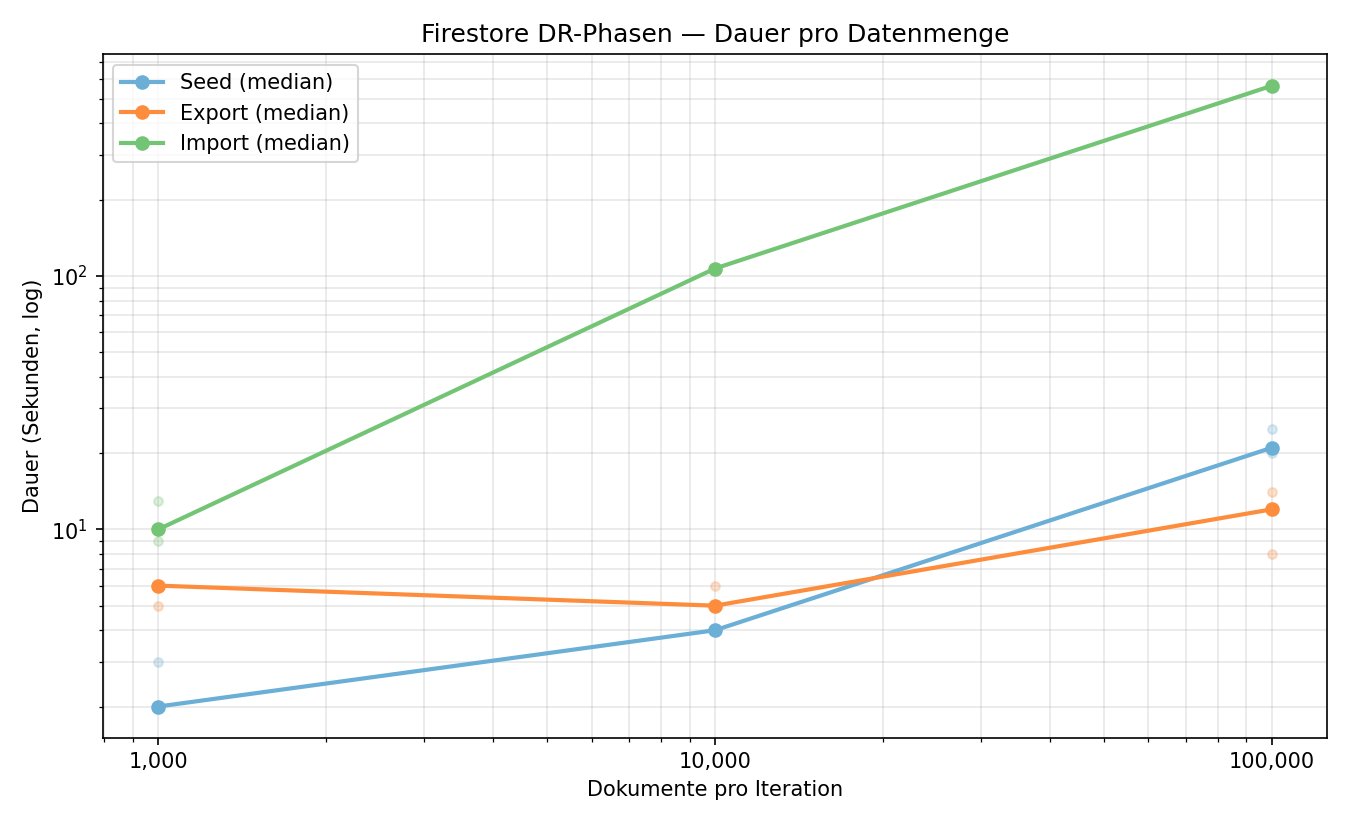
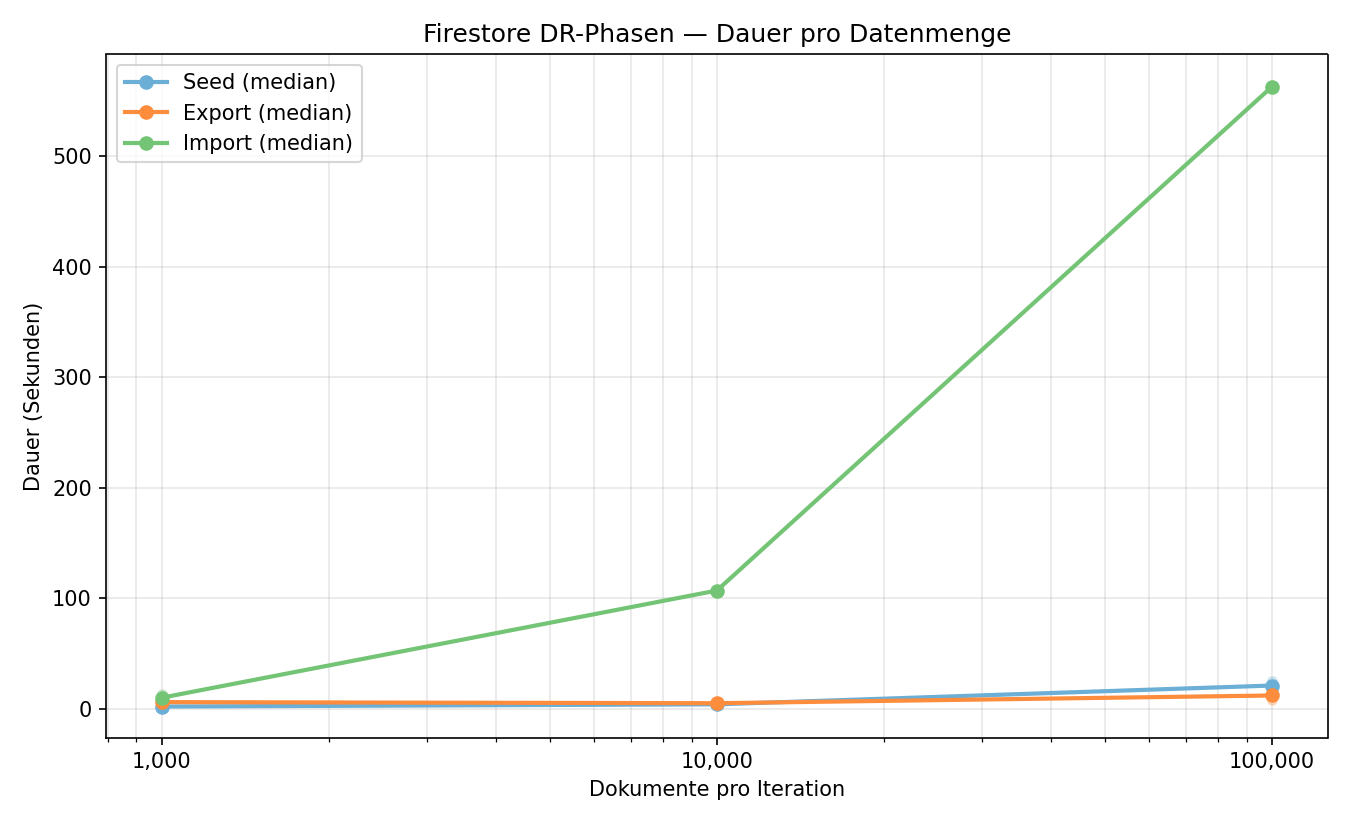
minor improvements

diff --git a/frontend/src/components/Chat.tsx b/frontend/src/components/Chat.tsx
@@ -614,7 +614,7 @@ export default function Chat() {
     });
 
     try {
-      const res = await sendMessage(requestText, conversationId, "trip_json");
+      const res = await sendMessage(requestText, conversationId);
 
       setConversationId(res.conversation_id);
       syncConversationParam(res.conversation_id, true);
@@ -649,7 +649,7 @@ export default function Chat() {
     setError(null);
     setLoading(true);
     try {
-      const res = await sendMessage(retryRequest.requestText, retryRequest.conversationId, "trip_json");
+      const res = await sendMessage(retryRequest.requestText, retryRequest.conversationId);
 
       setConversationId(res.conversation_id);
       syncConversationParam(res.conversation_id, true);

diff --git a/frontend/src/services/api.test.ts b/frontend/src/services/api.test.ts
@@ -100,7 +100,6 @@ describe("api helper functions", () => {
       expect(JSON.parse(config.data)).toEqual({
         content: "Plan Porto",
         conversation_id: "conv-1",
-        response_format: "trip_json",
         is_bootstrap: true,
       });
       return [
@@ -113,7 +112,7 @@ describe("api helper functions", () => {
       ];
     });
 
-    const result = await sendMessage("Plan Porto", "conv-1", "trip_json", true);
+    const result = await sendMessage("Plan Porto", "conv-1", true);
     expect(result).toEqual({
       conversation_id: "conv-1",
       assistant_message: "ok",

diff --git a/frontend/src/services/api.ts b/frontend/src/services/api.ts
@@ -32,10 +32,9 @@ api.interceptors.response.use(
 export const sendMessage = (
   content: string,
   conversation_id: string | null = null,
-  response_format: "text" | "trip_json" = "text",
   is_bootstrap = false
 ): Promise<SendMessageResponse> =>
-  api.post("/ai/chat", { content, conversation_id, response_format, is_bootstrap }).then((r) => r.data);
+  api.post("/ai/chat", { content, conversation_id, is_bootstrap }).then((r) => r.data);
 
 export const listConversations = (): Promise<Conversation[]> =>
   api.get("/ai/conversations").then((r) => r.data);

diff --git a/scripts/perf-plot.py b/scripts/perf-plot.py
@@ -47,9 +47,8 @@ def plot_scale(rows: list[dict], output: Path) -> None:
                 ax.scatter([dc], [r[field]], color=color, alpha=0.25, s=18)
 
     ax.set_xscale("log")
-    ax.set_yscale("log")
     ax.set_xlabel("Dokumente pro Iteration")
-    ax.set_ylabel("Dauer (Sekunden, log)")
+    ax.set_ylabel("Dauer (Sekunden)")
     ax.set_title("Firestore DR-Phasen — Dauer pro Datenmenge")
     ax.grid(True, which="both", alpha=0.3)
     ax.legend(loc="upper left")
@@ -72,9 +71,8 @@ def plot_mig(rows: list[dict], output: Path) -> None:
     ]
 
     iterations = [r["iteration"] for r in rows]
-    fig, (ax1, ax2) = plt.subplots(1, 2, figsize=(13, 5.5), gridspec_kw={"width_ratios": [3, 2]})
+    fig, ax1 = plt.subplots(figsize=(9, 5.5))
 
-    # Left: per-iteration timeline
     width = 0.18
     x = np.arange(len(iterations))
     for i, (field, label, color) in enumerate(events):
@@ -88,37 +86,6 @@ def plot_mig(rows: list[dict], output: Path) -> None:
     ax1.set_title("MIG-Recovery — Ereigniszeiten pro Iteration")
     ax1.grid(True, axis="y", alpha=0.3)
     ax1.legend(loc="upper right", fontsize=9)
-
-    # Right: median summary
-    labels = [lbl for _, lbl, _ in events]
-    medians: list[float] = []
-    mins: list[float] = []
-    maxs: list[float] = []
-    colors = [c for _, _, c in events]
-    for field, _, _ in events:
-        vals = [r[field] for r in rows if r.get(field) is not None]
-        if vals:
-            medians.append(statistics.median(vals))
-            mins.append(min(vals))
-            maxs.append(max(vals))
-        else:
-            medians.append(0); mins.append(0); maxs.append(0)
-
-    y = np.arange(len(labels))
-    ax2.barh(y, medians, color=colors)
-    ax2.errorbar(
-        medians, y,
-        xerr=[np.subtract(medians, mins), np.subtract(maxs, medians)],
-        fmt="none", ecolor="black", capsize=4, linewidth=1,
-    )
-    for yi, m in zip(y, medians):
-        ax2.text(m, yi, f"  {m:.0f}s", va="center", fontsize=9)
-    ax2.set_yticks(y)
-    ax2.set_yticklabels(labels)
-    ax2.invert_yaxis()
-    ax2.set_xlabel("Sekunden (Median, Whiskers = Min/Max)")
-    ax2.set_title(f"Median über {len(rows)} Iterationen")
-    ax2.grid(True, axis="x", alpha=0.3)
 
     fig.tight_layout()
     fig.savefig(output, dpi=150)

diff --git a/backend/routers/ai.py b/backend/routers/ai.py
@@ -6,7 +6,7 @@ import json
 import logging
 import re
 from datetime import UTC, datetime
-from typing import Any, Literal
+from typing import Any
 
 from fastapi import APIRouter, Depends, HTTPException
 from fastapi.responses import JSONResponse
@@ -23,8 +23,6 @@ logger = logging.getLogger(__name__)
 class MessageIn(BaseModel):
     conversation_id: str | None = None
     content: str
-    # Kept for backward compatibility with older clients; backend now enforces JSON phased mode.
-    response_format: Literal["text", "trip_json"] = "text"
     is_bootstrap: bool = False
 
 
@@ -178,10 +176,7 @@ async def chat(body: MessageIn, user: dict = Depends(get_current_user)):
     request_history = [*history, {"role": "user", "parts": [request_text]}]
     logger.info("ai_chat_request", extra={"uid": uid, "conversation_id": conv_ref.id})
 
-    forced_response_format: Literal["trip_json"] = "trip_json"
-    raw_reply = await gemini_chat(
-        uid=uid, messages=request_history, response_format=forced_response_format
-    )
+    raw_reply = await gemini_chat(uid=uid, messages=request_history)
     try:
         envelope = _parse_gemini_envelope(raw_reply)
     except ValueError as first_exc:
@@ -193,11 +188,7 @@ async def chat(body: MessageIn, user: dict = Depends(get_current_user)):
             *history,
             {"role": "user", "parts": [_repair_instruction_for_envelope(request_text)]},
         ]
-        raw_reply_retry = await gemini_chat(
-            uid=uid,
-            messages=repaired_history,
-            response_format=forced_response_format,
-        )
+        raw_reply_retry = await gemini_chat(uid=uid, messages=repaired_history)
         try:
             envelope = _parse_gemini_envelope(raw_reply_retry)
             raw_reply = raw_reply_retry

diff --git a/backend/services/gemini.py b/backend/services/gemini.py
@@ -8,7 +8,6 @@ import logging
 import os
 import time
 from datetime import date
-from typing import Literal
 
 import google.generativeai as genai
 from fastapi import HTTPException, status
@@ -143,9 +142,7 @@ async def check_and_increment_rate_limit(uid: str) -> int:
     return update_in_transaction(transaction, ref)
 
 
-async def chat(
-    uid: str, messages: list[dict], response_format: Literal["text", "trip_json"] = "text"
-) -> str:
+async def chat(uid: str, messages: list[dict]) -> str:
     """
     Send a conversation to Gemini and return the assistant reply.
     messages format: [{"role": "user"|"model", "parts": ["text..."]}]
@@ -162,8 +159,6 @@ async def chat(
     history = messages[:-1]
     latest = messages[-1]["parts"][0] if messages else ""
 
-    # response_format is kept for backward compatibility; we always run one JSON-phased model.
-    _ = response_format
     chat_session = _model.start_chat(history=history)
     t0 = time.perf_counter()
     try:

diff --git a/backend/tests/integration/test_gemini.py b/backend/tests/integration/test_gemini.py
@@ -50,7 +50,6 @@ async def test_gemini_phase1_responds() -> None:
         reply = await gemini_service.chat(
             uid="gemini-integration-phase1",
             messages=messages,
-            response_format="trip_json",
         )
     except Exception as exc:  # pragma: no cover - diagnostic path for integration runs
         pytest.fail(f"phase1 call failed: {type(exc).__name__}: {exc}")
@@ -85,7 +84,6 @@ async def test_gemini_phase2_returns_exact_trip_json_shape() -> None:
         reply = await gemini_service.chat(
             uid="gemini-integration-phase2",
             messages=messages,
-            response_format="trip_json",
         )
     except Exception as exc:  # pragma: no cover - diagnostic path for integration runs
         pytest.fail(f"phase2 call failed: {type(exc).__name__}: {exc}")

diff --git a/backend/tests/test_ai.py b/backend/tests/test_ai.py
@@ -131,7 +131,7 @@ def test_chat_trip_json_format_returns_trip_plan(client, mock_db):
     ):
         response = client.post(
             "/api/ai/chat",
-            json={"content": "Plan a trip to Rome", "response_format": "trip_json"},
+            json={"content": "Plan a trip to Rome"},
         )
 
     assert response.status_code == 200
@@ -160,7 +160,7 @@ def test_chat_trip_json_format_invalid_json_returns_none(client, mock_db):
     ):
         response = client.post(
             "/api/ai/chat",
-            json={"content": "Plan a trip", "response_format": "trip_json"},
+            json={"content": "Plan a trip"},
         )
 
     assert response.status_code == 200

diff --git a/backend/tests/test_services.py b/backend/tests/test_services.py
@@ -69,7 +69,6 @@ async def test_gemini_chat_success(monkeypatch):
     result = await gemini.chat(
         uid="user-1",
         messages=[{"role": "user", "parts": ["Hi there"]}],
-        response_format="trip_json",
     )
 
     assert result == "hello from gemini"
